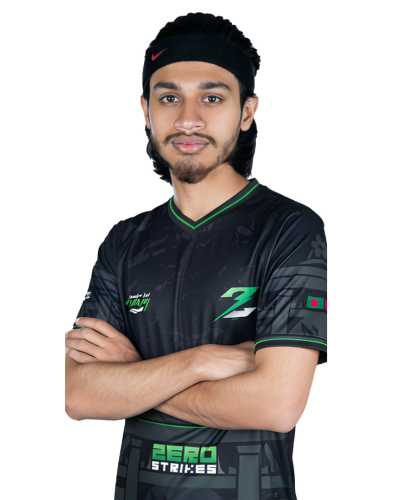
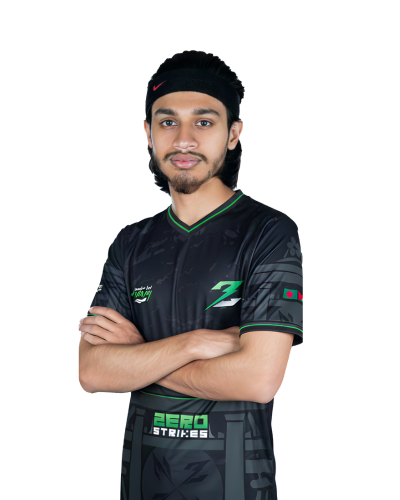
img 2 added

Changed region(s): [[0.15, 0.0, 0.84, 1.0]]

diff --git a/src/components/home/PlayersSection.tsx b/src/components/home/PlayersSection.tsx
@@ -17,7 +17,7 @@ const players = [
     id: "2",
     name: "SHADOW",
     role: "Entry Fragger",
-    image: "https://images.unsplash.com/photo-1511512578047-dfb367046420?w=400&h=500&fit=crop",
+    image: "./players/HAWKS.png",
     stats: { kills: 12850, winRate: "91%", kd: "3.8" },
   },
   {
@@ -67,7 +67,7 @@ export function PlayersSection() {
               transition={{ delay: index * 0.1 }}
               className="player-card glass-card gaming-border group"
             >
-              <div className="relative h-64 overflow-hidden rounded-t-xl">
+              <div className="relative h-80 overflow-hidden rounded-t-xl">
                 <img
                   src={player.image}
                   alt={player.name}

diff --git a/src/app/players/page.tsx b/src/app/players/page.tsx
@@ -23,7 +23,7 @@ const players = [
     role: "Entry Fragger",
     country: "Philippines",
     age: 20,
-    image: "https://images.unsplash.com/photo-1511512578047-dfb367046420?w=600&h=800&fit=crop",
+    image: "./players/HAWKS.png",
     bio: "Known for his lightning-fast reflexes and fearless entries. Shadow creates space for the team with his aggressive pushes.",
     stats: { kills: 12850, winRate: "91%", kd: "3.8", matches: 980 },
     social: { twitter: "#", youtube: "#", twitch: "#" },
